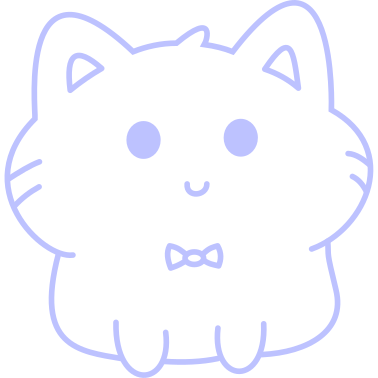
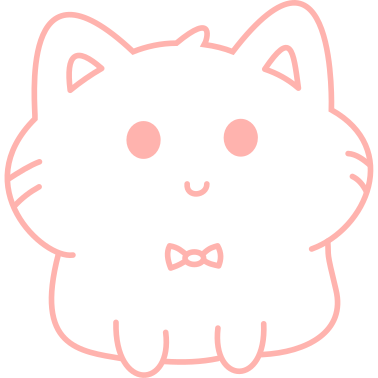
Regenerate theme colors for the current wallpaper

diff --git a/swaync/tokens/variables.css b/swaync/tokens/variables.css
@@ -2,10 +2,10 @@
 
 * {
   /* Backgrounds */
-  --bg-panel:          #1b1b21;
-  --bg-widget:         #1f1f25;
-  --bg-tile:           #29292f;
-  --bg-tile-hover:     #34343a;
+  --bg-panel:          #231919;
+  --bg-widget:         #271d1d;
+  --bg-tile:           #322827;
+  --bg-tile-hover:     #3d3231;
   --bg-critical:       #93000a;
   --bg-critical-hover: #93000a;
 
@@ -14,27 +14,27 @@
   --shadow-critical:   #93000a;
 
   /* Buttons */
-  --btn-on:            #bdc2ff;
-  --btn-off:           #34343a;
+  --btn-on:            #ffb3ae;
+  --btn-off:           #3d3231;
 
   /* Accent (primary) */
-  --accent:            #bdc2ff;
-  --on-accent:         #252b61;
-  --accent-dim:        #3c4279;
-  --accent-hover:      #bdc2ff;
+  --accent:            #ffb3ae;
+  --on-accent:         #571d1c;
+  --accent-dim:        #733331;
+  --accent-hover:      #ffb3ae;
 
   /* Hover */
-  --hover-dim:         #34343a;
+  --hover-dim:         #3d3231;
 
   /* Borders */
-  --border-subtle:     #46464f;
-  --border-glass:      #91909a;
+  --border-subtle:     #534342;
+  --border-glass:      #a08c8b;
 
   /* Text */
-  --text-primary:      #e4e1e9;
-  --text-secondary:    #c7c5d0;
-  --text-dim:          #c7c5d0;
-  --text-hover:        #e4e1e9;
+  --text-primary:      #f1dedd;
+  --text-secondary:    #d8c2c0;
+  --text-dim:          #d8c2c0;
+  --text-hover:        #f1dedd;
 
   /* Error text */
   --error-text:        #ffdad6;
